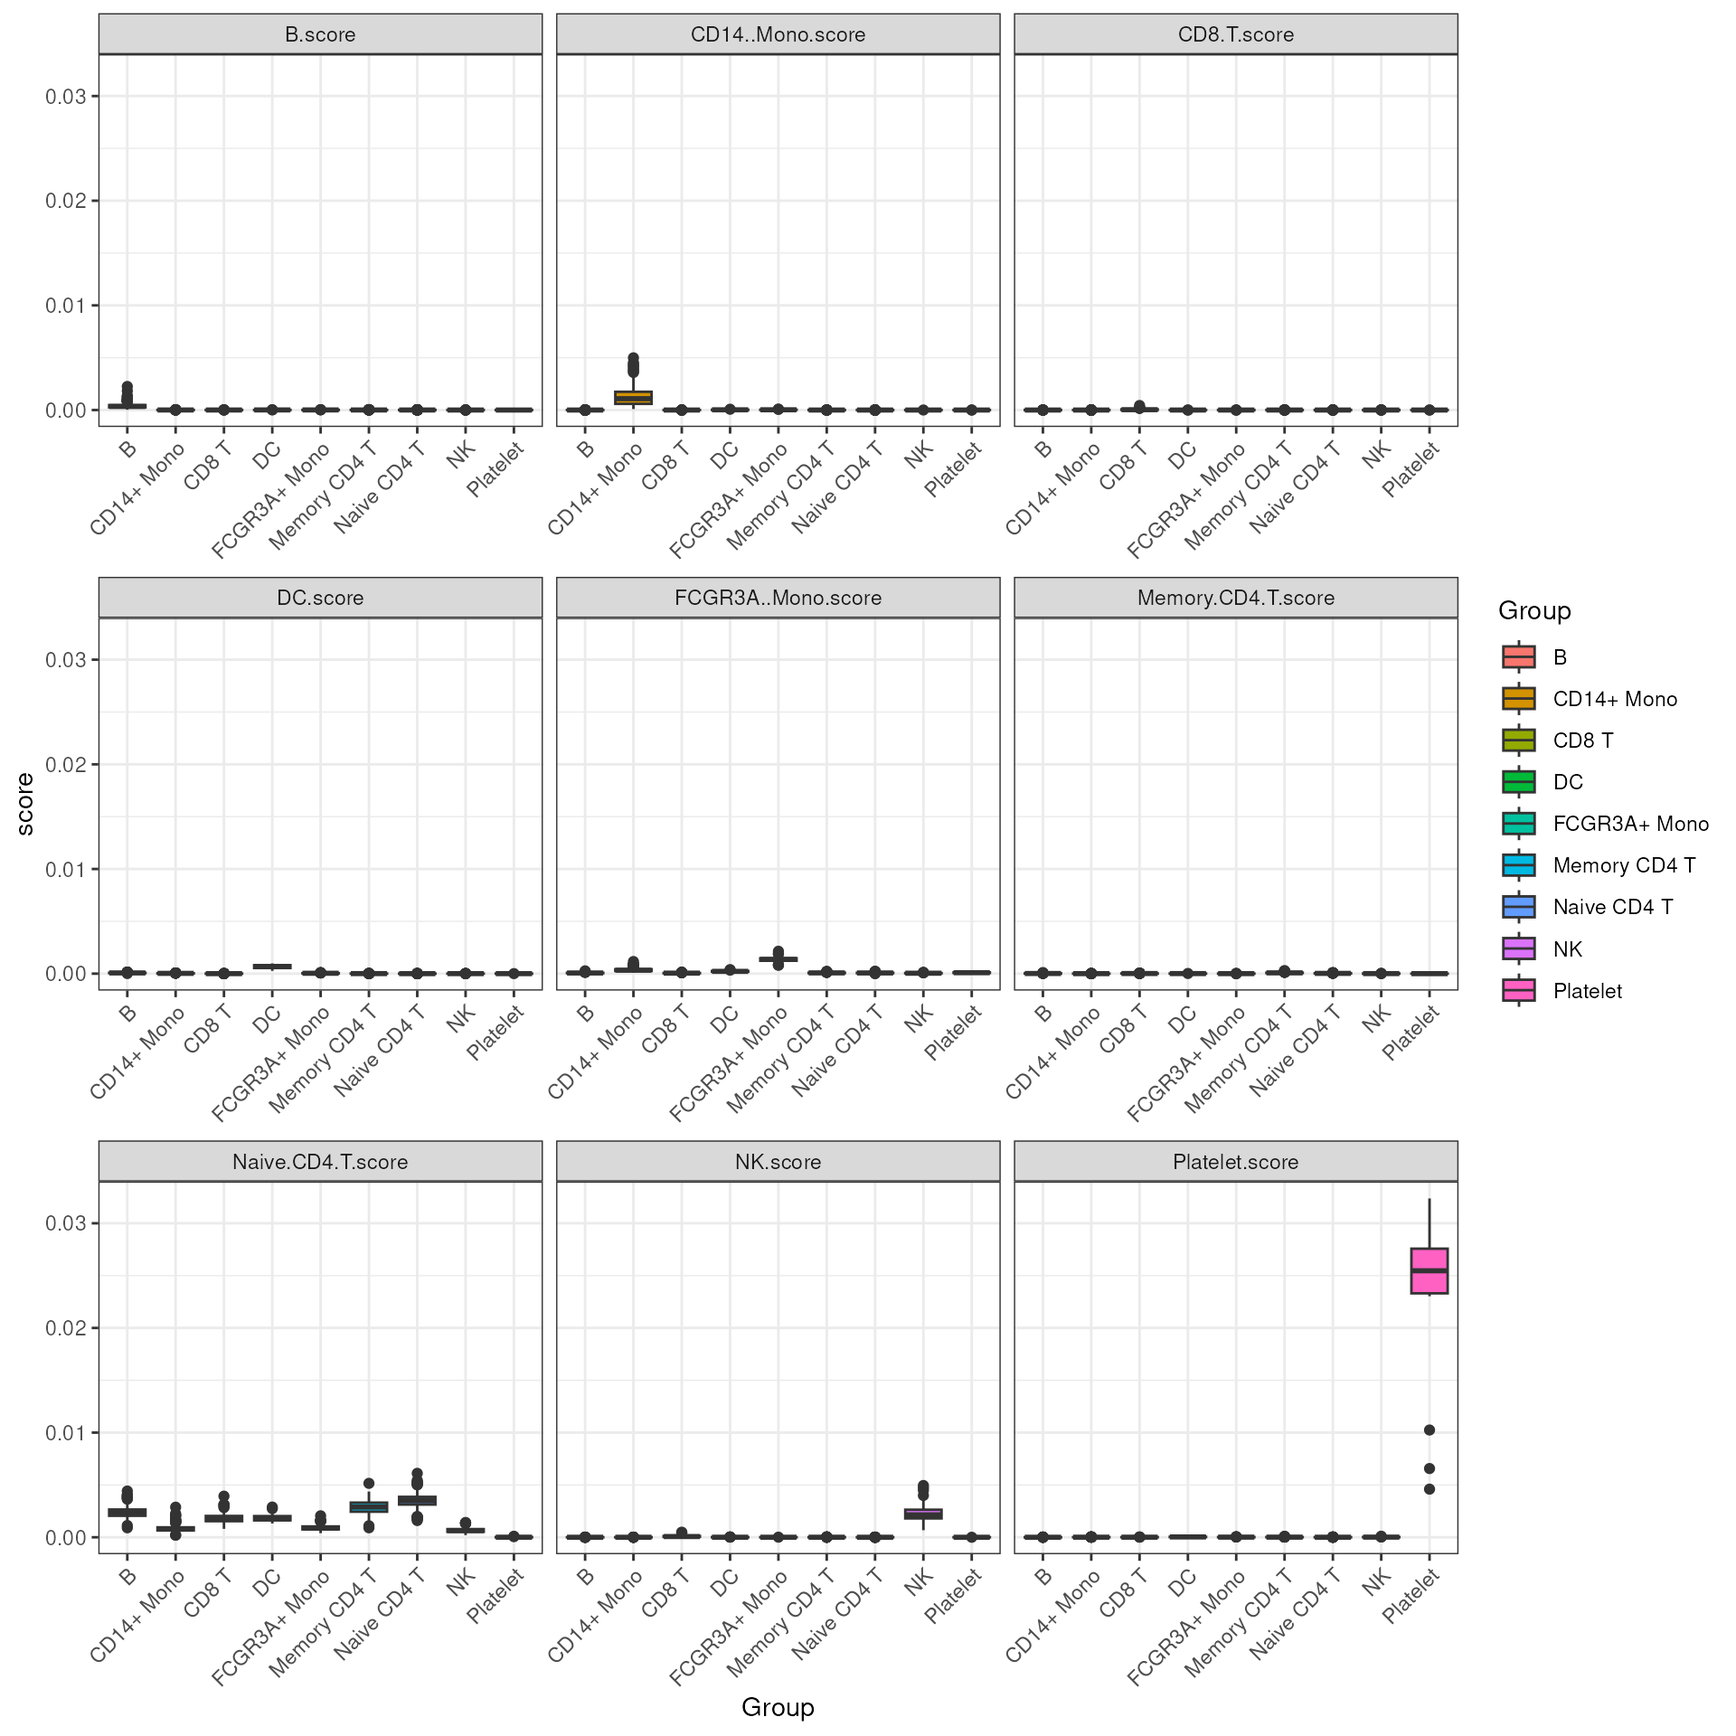
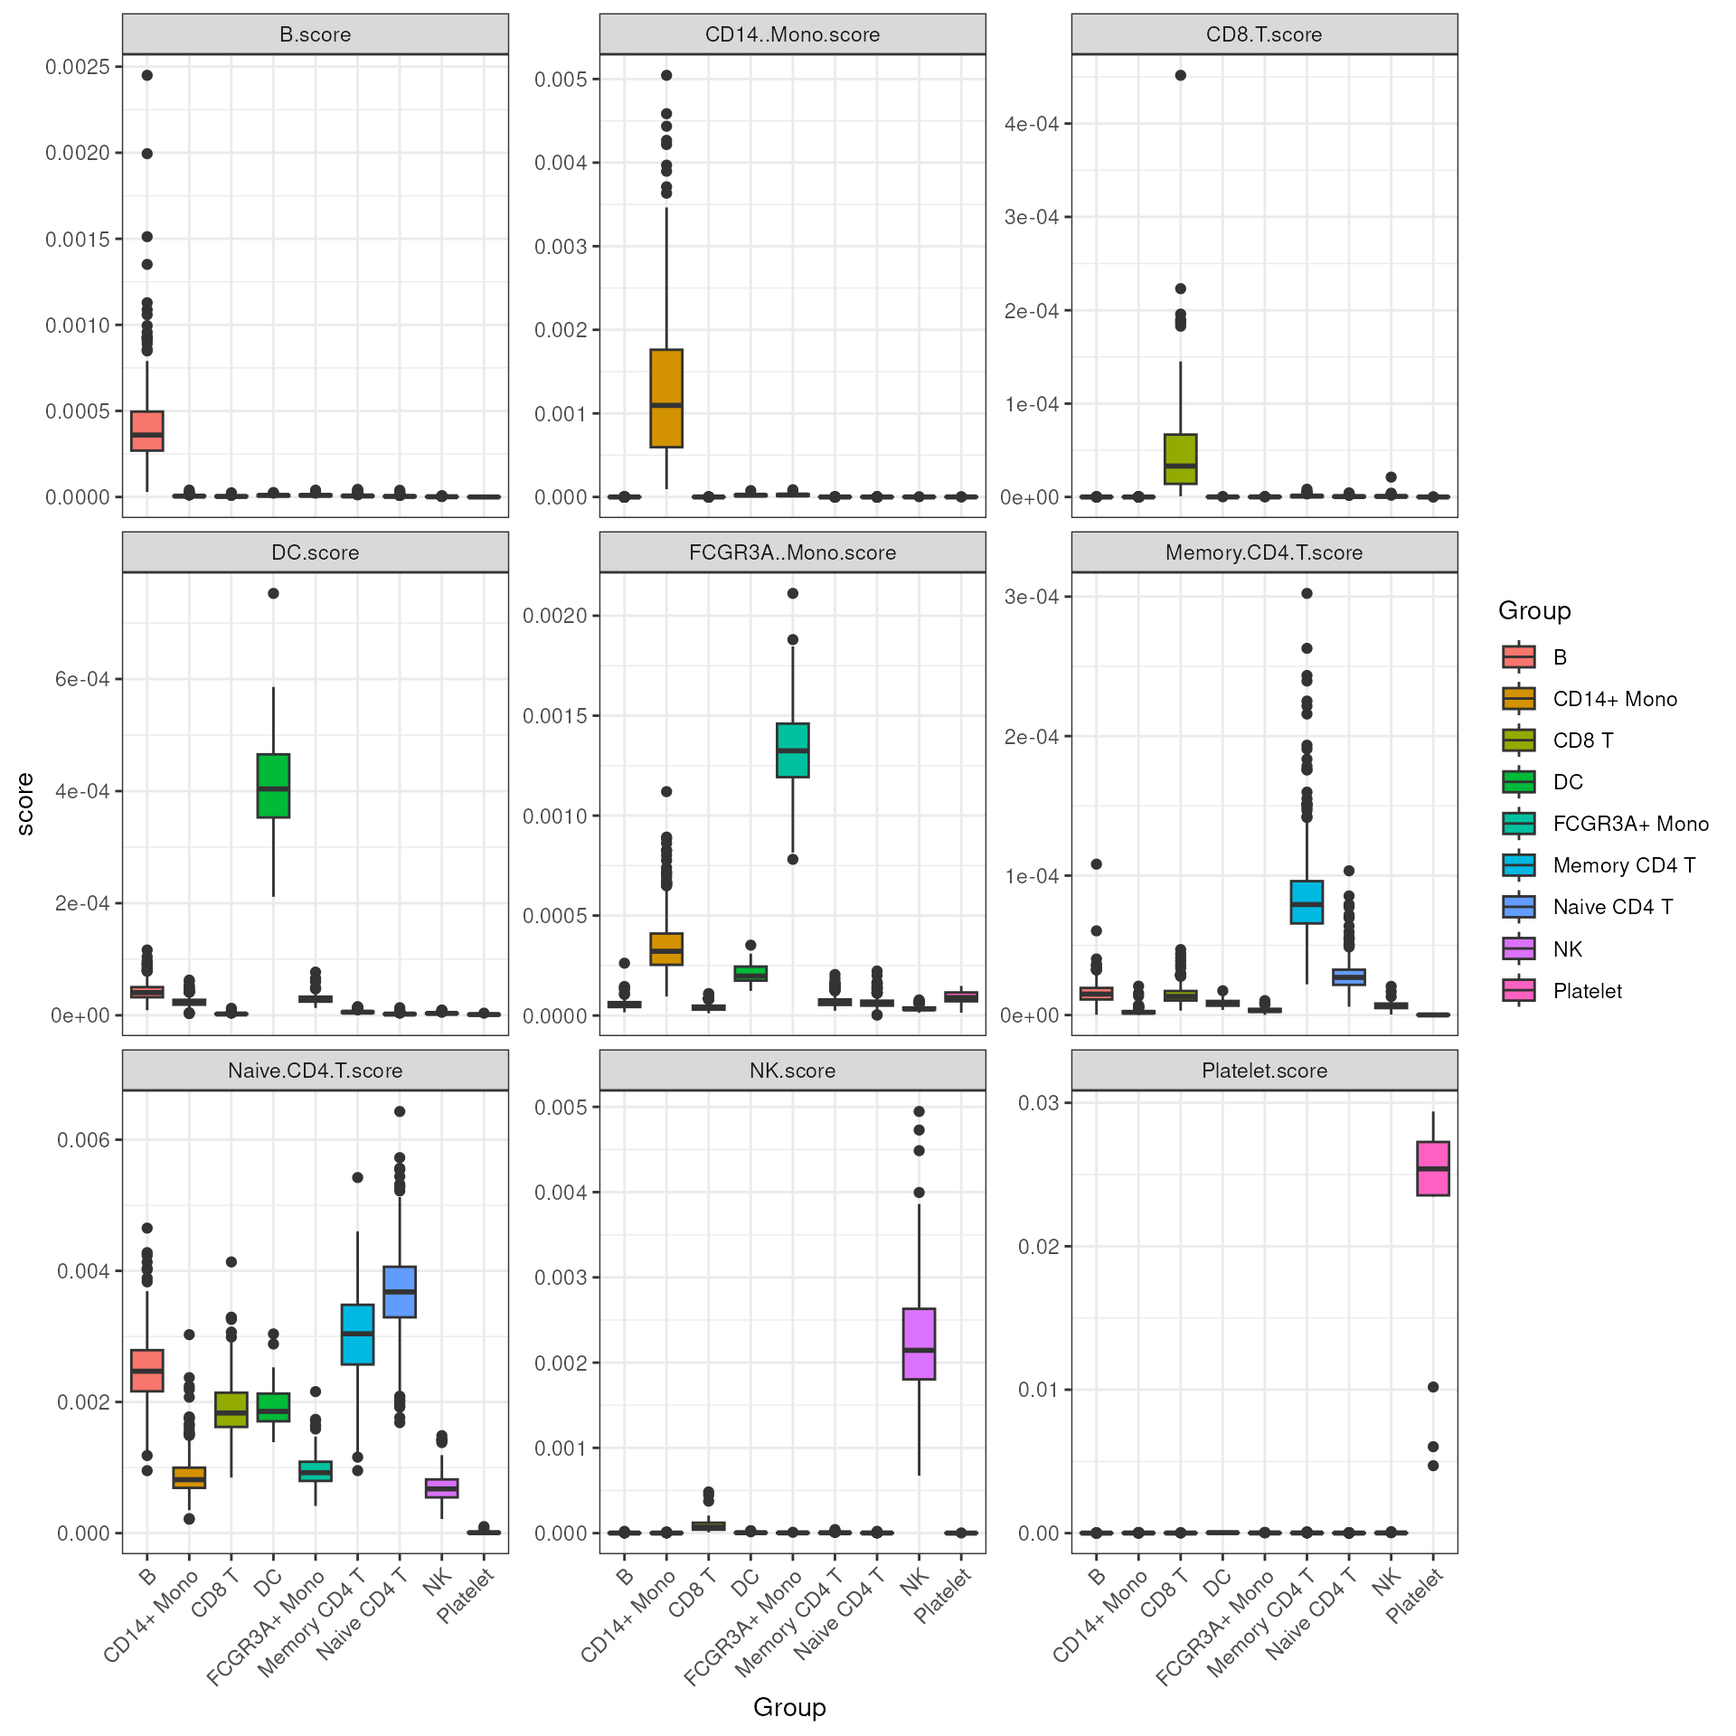
Deploying to gh-pages from @ Gene233/MarkerIdentificationWorkflow@128b287b3636ecc83d939ed63c38ba865fab5141 🚀

diff --git a/articles/workshop_smartid_casestudy.html b/articles/workshop_smartid_casestudy.html
@@ -449,11 +449,11 @@ feature names in the <code>SingleCellExperiment</code> object.</p>
 convert the feature names of the marker list back to the original
 feature names before scoring.</p>
 <div class="sourceCode" id="cb11"><pre class="downlit sourceCode r">
-<code class="sourceCode R"><span><span class="co">## convert feature names back to original feature names</span></span>
-<span><span class="va">m_ls_smartid</span> <span class="op">&lt;-</span> <span class="fu"><a href="https://rdrr.io/pkg/BiocGenerics/man/lapply.html" class="external-link">lapply</a></span><span class="op">(</span><span class="va">m_ls_smartid</span>, <span class="kw">function</span><span class="op">(</span><span class="va">x</span><span class="op">)</span> <span class="fu"><a href="https://rdrr.io/r/base/grep.html" class="external-link">sub</a></span><span class="op">(</span><span class="st">"\\."</span>, <span class="st">"-"</span>, <span class="va">x</span><span class="op">)</span><span class="op">)</span></span>
+<code class="sourceCode R"><span><span class="co"># ## convert feature names back to original feature names</span></span>
+<span><span class="co"># m_ls_smartid &lt;- lapply(m_ls_smartid, function(x) sub("\\.", "-", x))</span></span>
 <span></span>
-<span><span class="co"># ## convert feature names of the score matrix to valid R variable names</span></span>
-<span><span class="co"># colnames(sce@assays@data$score) &lt;- make.names(colnames(sce@assays@data$score))</span></span>
+<span><span class="co">## convert feature names of the score matrix to valid R variable names</span></span>
+<span><span class="fu"><a href="https://rdrr.io/pkg/BiocGenerics/man/row_colnames.html" class="external-link">rownames</a></span><span class="op">(</span><span class="va">sce</span><span class="op">@</span><span class="va">assays</span><span class="op">@</span><span class="va">data</span><span class="op">$</span><span class="va">score</span><span class="op">)</span> <span class="op">&lt;-</span> <span class="fu"><a href="https://rdrr.io/r/base/make.names.html" class="external-link">make.names</a></span><span class="op">(</span><span class="fu"><a href="https://rdrr.io/pkg/BiocGenerics/man/row_colnames.html" class="external-link">rownames</a></span><span class="op">(</span><span class="va">sce</span><span class="op">@</span><span class="va">assays</span><span class="op">@</span><span class="va">data</span><span class="op">$</span><span class="va">score</span><span class="op">)</span><span class="op">)</span></span>
 <span></span>
 <span><span class="co">## visualize score for cell type 1 across cell types</span></span>
 <span><span class="fu"><a href="https://davislaboratory.github.io/smartid/reference/ova_score_boxplot.html" class="external-link">ova_score_boxplot</a></span><span class="op">(</span></span>
@@ -462,8 +462,7 @@ feature names before scoring.</p>
 <span>    ref.group <span class="op">=</span> <span class="fu"><a href="https://rdrr.io/r/base/names.html" class="external-link">names</a></span><span class="op">(</span><span class="va">m_ls_smartid</span><span class="op">)</span><span class="op">[</span><span class="fl">1</span><span class="op">]</span>,</span>
 <span>    label <span class="op">=</span> <span class="va">sce</span><span class="op">$</span><span class="va">Group</span></span>
 <span>  <span class="op">)</span> <span class="op">+</span></span>
-<span>    <span class="fu"><a href="https://ggplot2.tidyverse.org/reference/labs.html" class="external-link">ggtitle</a></span><span class="op">(</span><span class="fu"><a href="https://rdrr.io/r/base/sprintf.html" class="external-link">sprintf</a></span><span class="op">(</span><span class="st">"smartid-identified markers for %s"</span>, <span class="fu"><a href="https://rdrr.io/r/base/names.html" class="external-link">names</a></span><span class="op">(</span><span class="va">m_ls_smartid</span><span class="op">)</span><span class="op">[</span><span class="fl">1</span><span class="op">]</span><span class="op">)</span><span class="op">)</span></span>
-<span><span class="co">#&gt; Warning in gs_score_init(data, features = features): Feature AC079767-4 is not in score!</span></span></code></pre></div>
+<span>    <span class="fu"><a href="https://ggplot2.tidyverse.org/reference/labs.html" class="external-link">ggtitle</a></span><span class="op">(</span><span class="fu"><a href="https://rdrr.io/r/base/sprintf.html" class="external-link">sprintf</a></span><span class="op">(</span><span class="st">"smartid-identified markers for %s"</span>, <span class="fu"><a href="https://rdrr.io/r/base/names.html" class="external-link">names</a></span><span class="op">(</span><span class="va">m_ls_smartid</span><span class="op">)</span><span class="op">[</span><span class="fl">1</span><span class="op">]</span><span class="op">)</span><span class="op">)</span></span></code></pre></div>
 <p><img src="workshop_smartid_casestudy_files/figure-html/unnamed-chunk-6-1.png" class="r-plt" width="768"></p>
 <p>Now we can see no more warnings about the missing Features this
 time.</p>
@@ -483,15 +482,70 @@ access, with the suffix of ‘score’ following the cell type name.</p>
 <span>  slot <span class="op">=</span> <span class="st">"score"</span>,</span>
 <span>  suffix <span class="op">=</span> <span class="st">"score"</span></span>
 <span><span class="op">)</span></span>
-<span><span class="co">#&gt; Warning in gs_score_init(score = data, features = features): Feature AC079767-4 is not in score!</span></span>
-<span><span class="co">#&gt; Warning in gs_score_init(score = data, features = features): Feature AC092580-4 is not in score!</span></span>
-<span><span class="co">#&gt; Feature AC006369-2 is not in score!</span></span>
-<span><span class="co">#&gt; Feature AC062029-1 is not in score!</span></span>
-<span><span class="co">#&gt; Feature AC104820-2 is not in score!</span></span>
-<span><span class="co">#&gt; Feature AC093388-3 is not in score!</span></span>
-<span><span class="co">#&gt; Warning in gs_score_init(score = data, features = features): Feature NDUFA7-1 is not in score!</span></span>
-<span><span class="co">#&gt; Warning in gs_score_init(score = data, features = features): Feature AP001189-4 is not in score!</span></span>
-<span><span class="co">#&gt; Feature AC147651-3 is not in score!</span></span>
+<span><span class="co">#&gt; Warning in gs_score_init(score = data, features = features): Feature HLA.DOB is not in score!</span></span>
+<span><span class="co">#&gt; Feature RP11.693J15.5 is not in score!</span></span>
+<span><span class="co">#&gt; Feature RP5.887A10.1 is not in score!</span></span>
+<span><span class="co">#&gt; Feature RP1.313I6.12 is not in score!</span></span>
+<span><span class="co">#&gt; Feature CTC.228N24.3 is not in score!</span></span>
+<span><span class="co">#&gt; Feature RP11.164H13.1 is not in score!</span></span>
+<span><span class="co">#&gt; Feature RP13.188A5.1 is not in score!</span></span>
+<span><span class="co">#&gt; Feature RP11.16E12.2 is not in score!</span></span>
+<span><span class="co">#&gt; Feature CTA.250D10.23 is not in score!</span></span>
+<span><span class="co">#&gt; Feature RP11.428G5.5 is not in score!</span></span>
+<span><span class="co">#&gt; Feature RP11.727F15.9 is not in score!</span></span>
+<span><span class="co">#&gt; Feature RP11.452F19.3 is not in score!</span></span>
+<span><span class="co">#&gt; Feature RP11.325F22.2 is not in score!</span></span>
+<span><span class="co">#&gt; Feature RP11.861A13.4 is not in score!</span></span>
+<span><span class="co">#&gt; Feature TAPT1.AS1 is not in score!</span></span>
+<span><span class="co">#&gt; Warning in gs_score_init(score = data, features = features): Feature RP11.295G20.2 is not in score!</span></span>
+<span><span class="co">#&gt; Warning in gs_score_init(score = data, features = features): Feature RP11.539L10.2 is not in score!</span></span>
+<span><span class="co">#&gt; Feature RP11.222K16.2 is not in score!</span></span>
+<span><span class="co">#&gt; Feature TPT1.AS1 is not in score!</span></span>
+<span><span class="co">#&gt; Feature A2M.AS1 is not in score!</span></span>
+<span><span class="co">#&gt; Feature LL22NC03.75H12.2 is not in score!</span></span>
+<span><span class="co">#&gt; Feature RP11.403I13.8 is not in score!</span></span>
+<span><span class="co">#&gt; Feature RP11.383H13.1 is not in score!</span></span>
+<span><span class="co">#&gt; Feature RP11.285F7.2 is not in score!</span></span>
+<span><span class="co">#&gt; Feature RP11.305L7.1 is not in score!</span></span>
+<span><span class="co">#&gt; Feature USP30.AS1 is not in score!</span></span>
+<span><span class="co">#&gt; Feature RP11.445H22.3 is not in score!</span></span>
+<span><span class="co">#&gt; Warning in gs_score_init(score = data, features = features): Feature HLA.DRB5 is not in score!</span></span>
+<span><span class="co">#&gt; Feature HLA.DRB1 is not in score!</span></span>
+<span><span class="co">#&gt; Feature HLA.DPB1 is not in score!</span></span>
+<span><span class="co">#&gt; Feature HLA.DPA1 is not in score!</span></span>
+<span><span class="co">#&gt; Feature HLA.DMA is not in score!</span></span>
+<span><span class="co">#&gt; Feature HLA.DQA2 is not in score!</span></span>
+<span><span class="co">#&gt; Feature HLA.DQA1 is not in score!</span></span>
+<span><span class="co">#&gt; Feature HLA.DQB1 is not in score!</span></span>
+<span><span class="co">#&gt; Feature HLA.DMB is not in score!</span></span>
+<span><span class="co">#&gt; Feature HLA.DQB2 is not in score!</span></span>
+<span><span class="co">#&gt; Feature HLA.DRA is not in score!</span></span>
+<span><span class="co">#&gt; Feature NME1.NME2 is not in score!</span></span>
+<span><span class="co">#&gt; Feature RP1.241P17.4 is not in score!</span></span>
+<span><span class="co">#&gt; Feature HLA.DOA is not in score!</span></span>
+<span><span class="co">#&gt; Feature CTA.29F11.1 is not in score!</span></span>
+<span><span class="co">#&gt; Feature RP11.1143G9.4 is not in score!</span></span>
+<span><span class="co">#&gt; Feature MT.ND5 is not in score!</span></span>
+<span><span class="co">#&gt; Warning in gs_score_init(score = data, features = features): Feature RP11.290F20.3 is not in score!</span></span>
+<span><span class="co">#&gt; Feature RP11.347P5.1 is not in score!</span></span>
+<span><span class="co">#&gt; Feature RP11.362F19.1 is not in score!</span></span>
+<span><span class="co">#&gt; Feature MT.CO2 is not in score!</span></span>
+<span><span class="co">#&gt; Warning in gs_score_init(score = data, features = features): Feature ILF3.AS1 is not in score!</span></span>
+<span><span class="co">#&gt; Feature CEBPZ.AS1 is not in score!</span></span>
+<span><span class="co">#&gt; Feature RP11.1399P15.1 is not in score!</span></span>
+<span><span class="co">#&gt; Feature RP11.403A21.2 is not in score!</span></span>
+<span><span class="co">#&gt; Feature RP4.539M6.22 is not in score!</span></span>
+<span><span class="co">#&gt; Feature GS1.251I9.4 is not in score!</span></span>
+<span><span class="co">#&gt; Feature RP13.977J11.2 is not in score!</span></span>
+<span><span class="co">#&gt; Feature RP11.936I5.1 is not in score!</span></span>
+<span><span class="co">#&gt; Feature RP11.138A9.1 is not in score!</span></span>
+<span><span class="co">#&gt; Feature RP11.44N11.2 is not in score!</span></span>
+<span><span class="co">#&gt; Feature CTC.523E23.11 is not in score!</span></span>
+<span><span class="co">#&gt; Warning in gs_score_init(score = data, features = features): Feature PRKCQ.AS1 is not in score!</span></span>
+<span><span class="co">#&gt; Feature RP11.291B21.2 is not in score!</span></span>
+<span><span class="co">#&gt; Warning in gs_score_init(score = data, features = features): Feature RP11.367G6.3 is not in score!</span></span>
+<span><span class="co">#&gt; Feature CD27.AS1 is not in score!</span></span>
+<span><span class="co">#&gt; Feature RP11.879F14.2 is not in score!</span></span>
 <span></span>
 <span><span class="co">## saved score</span></span>
 <span><span class="fu"><a href="https://rdrr.io/pkg/BiocGenerics/man/row_colnames.html" class="external-link">colnames</a></span><span class="op">(</span><span class="fu"><a href="https://rdrr.io/pkg/SummarizedExperiment/man/SummarizedExperiment-class.html" class="external-link">colData</a></span><span class="op">(</span><span class="va">sce</span><span class="op">)</span><span class="op">)</span></span>
@@ -514,7 +568,7 @@ type from all others.</p>
 <span>  <span class="op">)</span> <span class="op">|&gt;</span></span>
 <span>  <span class="fu"><a href="https://ggplot2.tidyverse.org/reference/ggplot.html" class="external-link">ggplot</a></span><span class="op">(</span><span class="fu"><a href="https://ggplot2.tidyverse.org/reference/aes.html" class="external-link">aes</a></span><span class="op">(</span>x <span class="op">=</span> <span class="va">Group</span>, y <span class="op">=</span> <span class="va">score</span>, fill <span class="op">=</span> <span class="va">Group</span><span class="op">)</span><span class="op">)</span> <span class="op">+</span></span>
 <span>  <span class="fu"><a href="https://ggplot2.tidyverse.org/reference/geom_boxplot.html" class="external-link">geom_boxplot</a></span><span class="op">(</span><span class="op">)</span> <span class="op">+</span></span>
-<span>  <span class="fu"><a href="https://ggplot2.tidyverse.org/reference/facet_wrap.html" class="external-link">facet_wrap</a></span><span class="op">(</span><span class="op">~</span><span class="va">`group markers`</span>, scales <span class="op">=</span> <span class="st">"free_x"</span><span class="op">)</span> <span class="op">+</span></span>
+<span>  <span class="fu"><a href="https://ggplot2.tidyverse.org/reference/facet_wrap.html" class="external-link">facet_wrap</a></span><span class="op">(</span><span class="op">~</span><span class="va">`group markers`</span>, scales <span class="op">=</span> <span class="st">"free_y"</span><span class="op">)</span> <span class="op">+</span></span>
 <span>  <span class="fu"><a href="https://ggplot2.tidyverse.org/reference/ggtheme.html" class="external-link">theme_bw</a></span><span class="op">(</span><span class="op">)</span> <span class="op">+</span></span>
 <span>  <span class="fu"><a href="https://ggplot2.tidyverse.org/reference/theme.html" class="external-link">theme</a></span><span class="op">(</span>axis.text.x <span class="op">=</span> <span class="fu"><a href="https://ggplot2.tidyverse.org/reference/element.html" class="external-link">element_text</a></span><span class="op">(</span>angle <span class="op">=</span> <span class="fl">45</span>, hjust <span class="op">=</span> <span class="fl">1</span><span class="op">)</span><span class="op">)</span></span></code></pre></div>
 <p><img src="workshop_smartid_casestudy_files/figure-html/unnamed-chunk-8-1.png" class="r-plt" width="960"></p>

diff --git a/articles/workshop_smartid.html b/articles/workshop_smartid.html
@@ -283,7 +283,7 @@ quite fast.</p>
 <span>  <span class="op">)</span></span>
 <span><span class="op">)</span></span>
 <span><span class="co">#&gt;    user  system elapsed </span></span>
-<span><span class="co">#&gt;   0.249   0.011   0.260</span></span>
+<span><span class="co">#&gt;   0.258   0.003   0.261</span></span>
 <span></span>
 <span><span class="co">## score and tf,idf,iae all saved</span></span>
 <span><span class="fu"><a href="https://rdrr.io/pkg/SummarizedExperiment/man/SummarizedExperiment-class.html" class="external-link">assays</a></span><span class="op">(</span><span class="va">data_sim</span><span class="op">)</span></span>
@@ -524,7 +524,7 @@ need for data pre-processing, which is quite convenient and fast.</p>
 <span>  <span class="op">)</span></span>
 <span><span class="op">)</span></span>
 <span><span class="co">#&gt;    user  system elapsed </span></span>
-<span><span class="co">#&gt;   0.177   0.014   0.191</span></span>
+<span><span class="co">#&gt;   0.185   0.014   0.199</span></span>
 <span></span>
 <span><span class="co">## new score is saved and tf,idf,iae all updated</span></span>
 <span><span class="fu"><a href="https://rdrr.io/pkg/SummarizedExperiment/man/SummarizedExperiment-class.html" class="external-link">assays</a></span><span class="op">(</span><span class="va">data_sim</span><span class="op">)</span></span>
